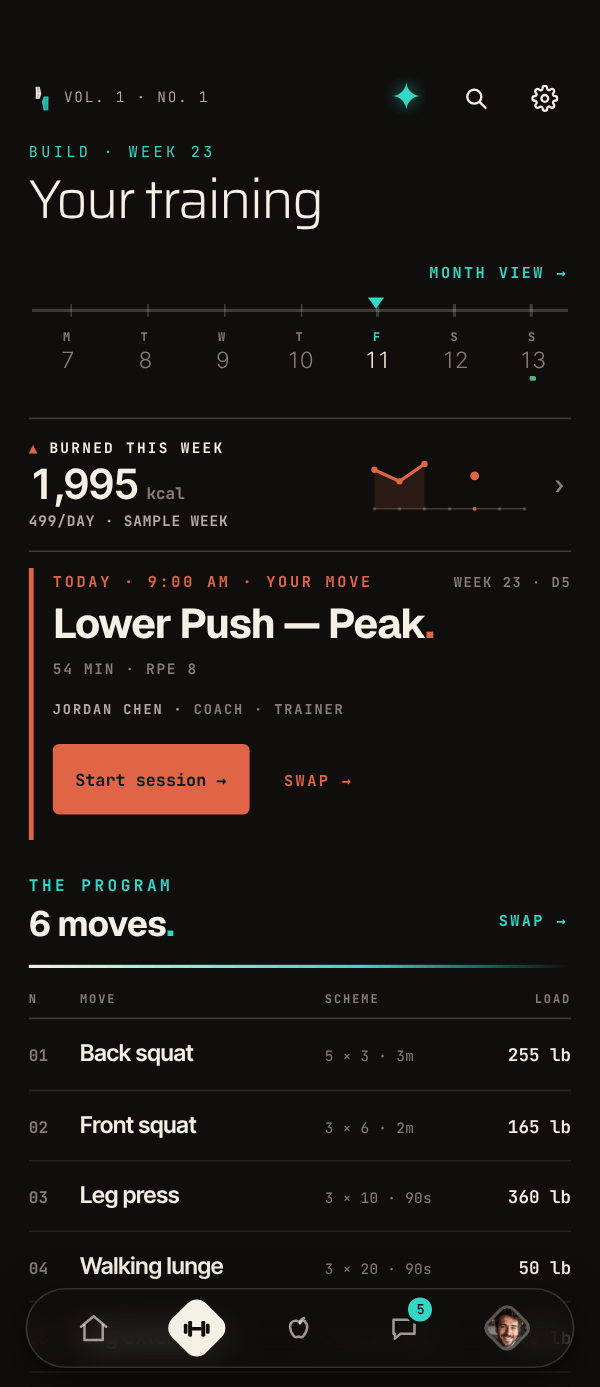
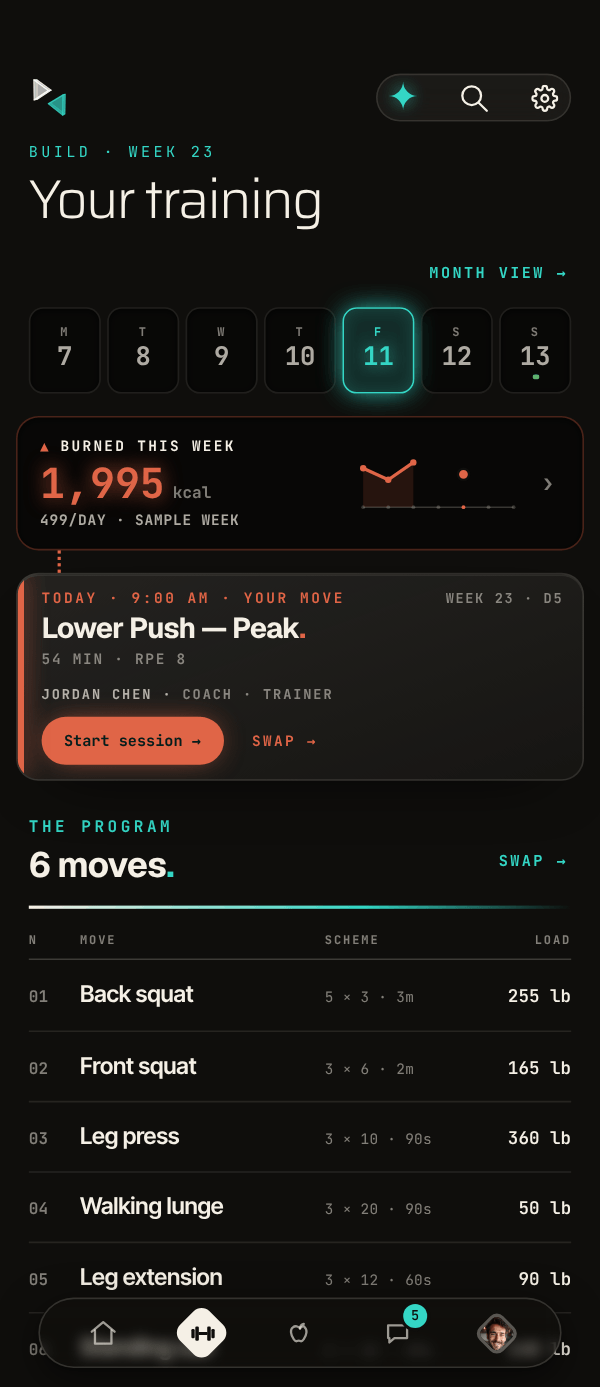
Website: every app screenshot re-shot from the current app (#2663)
Owner, 2026-11-09: "need to update all screenshots of app on website, on home page and app page".

Thirteen screens from a /m/ build of main in the signed-out preview, by the recorded method (375x867 at 1.6, Fri 2026-09-11 09:30 New York, is-native-app). Get App's eleven PNGs in place at ?v=20261109; the homepage's seven JPEGs as -v5. Copy follows the screens (Home's goal, Eat's 47g, the coach's new page, the Wall's figure); the homepage's four rings re-measured, Eat's and the session's inside their cards. War Room: #2659 and #2663 recorded, the old Grocery capture done.

diff --git a/public/newdesign/GetApp.html b/public/newdesign/GetApp.html
@@ -312,11 +312,11 @@
           <div class="time">06:45</div>
           <div class="eb">WAKE &#183; HOME</div>
           <h2>Today, at a glance.</h2>
-          <p>The Shape Daily: the station, your week, the morning check-in with your water, and today&rsquo;s call. Skim it in five seconds, dive in if you want.</p>
-          <div class="num"><b>&#9632;</b> Today&rsquo;s call &#183; Lower Push &#8212; Peak &#183; check-in, 15 sec</div>
+          <p>Your score, the station, the goal you&rsquo;re chasing, your week and the morning check-in with your water. Skim it in five seconds, dive in if you want.</p>
+          <div class="num"><b>&#9632;</b> Lean by August &#183; 7.1 lb to go</div>
           <span class="exlabel">Example member</span>
         </div>
-        <div class="beat-ph"><div class="ph"><div class="ph-scr"><img src="/newdesign/getapp-home-v5.png?v=20261103b" width="600" height="1387" alt="The app&rsquo;s Home screen: Shape Radio, the week strip, the morning check-in with water, and today&rsquo;s call" decoding="async"></div></div></div>
+        <div class="beat-ph"><div class="ph"><div class="ph-scr"><img src="/newdesign/getapp-home-v5.png?v=20261109" width="600" height="1387" alt="The app&rsquo;s Home screen: the Shape Score, Shape Radio, the goal drawn as a climb with 7.1 lb to go, the week strip, and the morning check-in with water" decoding="async"></div></div></div>
       </section>
       <section class="beat" style="--sky:rgba(255,180,84,.08)">
         <div class="beat-copy">
@@ -324,10 +324,10 @@
           <div class="eb">BREAKFAST &#183; EAT</div>
           <h2>Macros, tallied live.</h2>
           <p>Daily meal plans from your nutritionist. The day&rsquo;s deficit or surplus ticks as you log; swaps are built in.</p>
-          <div class="num"><b>&#9632;</b> 532 kcal left &#183; protein 118 / 165</div>
+          <div class="num"><b>&#9632;</b> 532 kcal left &#183; protein 47g left</div>
           <span class="exlabel">Example member</span>
         </div>
-        <div class="beat-ph"><div class="ph"><div class="ph-scr"><img src="/newdesign/getapp-nutri-v3.png?v=20261103" width="600" height="1387" alt="The app&rsquo;s Eat screen: the fuel left today by calories and macro, then the next meal with Log it and Swap" loading="lazy" decoding="async"></div></div></div>
+        <div class="beat-ph"><div class="ph"><div class="ph-scr"><img src="/newdesign/getapp-nutri-v3.png?v=20261109" width="600" height="1387" alt="The app&rsquo;s Eat screen: the fuel left today by calories and macro, then the next meal with Log it and Swap" loading="lazy" decoding="async"></div></div></div>
       </section>
       <section class="beat" style="--sky:rgba(52,214,197,.10)">
         <div class="beat-copy">
@@ -338,7 +338,7 @@
           <div class="num"><b>&#9632;</b> 6 moves &#183; 54 min &#183; RPE 8</div>
           <span class="exlabel">Example member</span>
         </div>
-        <div class="beat-ph"><div class="ph"><div class="ph-scr"><img src="/newdesign/getapp-train-v3.png?v=20261103" width="600" height="1387" alt="The app&rsquo;s Train screen: the calories burned this week, today&rsquo;s session with its coach and a Start button, then the program move by move with sets and loads" loading="lazy" decoding="async"></div></div></div>
+        <div class="beat-ph"><div class="ph"><div class="ph-scr"><img src="/newdesign/getapp-train-v3.png?v=20261109" width="600" height="1387" alt="The app&rsquo;s Train screen: the calories burned this week, today&rsquo;s session with its coach and a Start button, then the program move by move with sets and loads" loading="lazy" decoding="async"></div></div></div>
       </section>
       <section class="beat" style="--sky:rgba(52,214,197,.08)">
         <div class="beat-copy">
@@ -349,18 +349,18 @@
           <div class="num"><b>&#9632;</b> 245 lb &#183; new PR</div>
           <span class="exlabel">Example member</span>
         </div>
-        <div class="beat-ph"><div class="ph"><div class="ph-scr"><img src="/newdesign/getapp-wall-v1.png?v=20261103" width="600" height="1387" alt="A deadlift PR opened from the app&rsquo;s Wall: 245 lb as the top set under the headline, the member&rsquo;s note, the coach&rsquo;s co-sign, then the session&rsquo;s summary and heart rate" loading="lazy" decoding="async"></div></div></div>
+        <div class="beat-ph"><div class="ph"><div class="ph-scr"><img src="/newdesign/getapp-wall-v1.png?v=20261109" width="600" height="1387" alt="A deadlift PR opened from the app&rsquo;s Wall: 245 lb as the top set under the headline, the member&rsquo;s note, the coach&rsquo;s co-sign, then the session&rsquo;s summary and heart rate" loading="lazy" decoding="async"></div></div></div>
       </section>
       <section class="beat" style="--sky:rgba(192,83,59,.10)">
         <div class="beat-copy">
           <div class="time">12:15</div>
           <div class="eb">THE COACH&rsquo;S SIDE &#183; THEIR PAGE</div>
           <h2>Your coach&rsquo;s page, run from the app.</h2>
-          <p>Every trainer and nutritionist has a page on Shape and runs it from the app: the cover and photo, how they coach, their verified tier and reviews, and the hours they open. Only they see the Business card beneath it, with what they take home a month.</p>
-          <div class="num"><b>&#9632;</b> Verified Elite coach &#183; 9.9/10 from 284 reviews</div>
+          <p>Every trainer and nutritionist has a page on Shape and runs it from the app: the photo and gym, how they coach, their verified tier, rating and reviews. Only they see the Business card beneath it, with what they take home a month.</p>
+          <div class="num"><b>&#9632;</b> Verified by Shape &#183; Elite &#183; 9.9/10 from 284 reviews</div>
           <span class="exlabel">Example coach &#183; the trainer preview, sample numbers</span>
         </div>
-        <div class="beat-ph"><div class="ph"><div class="ph-scr"><img src="/newdesign/getapp-coach-v2.png?v=20261103" width="600" height="1387" alt="A coach&rsquo;s own page in the app&rsquo;s trainer preview: the gym cover and their photo, Verified Elite coach at 9.9/10 from 284 reviews, Make it yours and Your hours, and the private Business card with sample numbers" loading="lazy" decoding="async"></div></div></div>
+        <div class="beat-ph"><div class="ph"><div class="ph-scr"><img src="/newdesign/getapp-coach-v2.png?v=20261109" width="600" height="1387" alt="A coach&rsquo;s own page in the app&rsquo;s trainer preview: their photo over the gym, 9.9/10 from 284 reviews, their discipline, gym and city over their name, Verified by Shape and Elite, their line, the Elite tier at 3,060 points, and the private Business card with sample numbers" loading="lazy" decoding="async"></div></div></div>
       </section>
       <section class="beat" style="--sky:rgba(238,243,240,.05)">
         <div class="beat-copy">
@@ -371,7 +371,7 @@
           <div class="num"><b>&#9632;</b> 89 items &#183; 8 in the cart &#183; 81 to get</div>
           <span class="exlabel">Example member</span>
         </div>
-        <div class="beat-ph"><div class="ph"><div class="ph-scr"><img src="/newdesign/getapp-grocery-v2.png?v=20261103" width="600" height="1387" alt="The app&rsquo;s grocery list: this week&rsquo;s plan with 8 of 89 in the cart, Prep the week, then shopped by aisle with the aisles stepped across the top and Produce open" loading="lazy" decoding="async"></div></div></div>
+        <div class="beat-ph"><div class="ph"><div class="ph-scr"><img src="/newdesign/getapp-grocery-v2.png?v=20261109" width="600" height="1387" alt="The app&rsquo;s grocery list: this week&rsquo;s plan with 81 to get and 8 of 89 in the cart, then shopped by aisle with the aisles stepped across the top and Produce open" loading="lazy" decoding="async"></div></div></div>
       </section>
       <section class="beat" style="--sky:rgba(52,214,197,.12)">
         <div class="beat-copy">
@@ -382,7 +382,7 @@
           <div class="num"><b>&#9632;</b> The station &#183; ad-free &#183; in your membership</div>
           <span class="exlabel">Example member</span>
         </div>
-        <div class="beat-ph"><div class="ph"><div class="ph-scr"><img src="/newdesign/getapp-radio-v3.png?v=20261103" width="600" height="1387" alt="The app&rsquo;s Radio page: the Signal Field drawing the station&rsquo;s spectrum over a field of dots, with Now playing and Tune in below" loading="lazy" decoding="async"></div></div></div>
+        <div class="beat-ph"><div class="ph"><div class="ph-scr"><img src="/newdesign/getapp-radio-v3.png?v=20261109" width="600" height="1387" alt="The app&rsquo;s Radio page: the Signal Field drawing the station&rsquo;s spectrum over a field of dots, with Tempo Lift now playing and Tune in below" loading="lazy" decoding="async"></div></div></div>
       </section>
       <section class="beat" style="--sky:rgba(120,110,255,.10)">
         <div class="beat-copy">
@@ -390,10 +390,10 @@
           <div class="eb">THE ROOM &#183; THE WALL</div>
           <h2>The social side of strong.</h2>
           <p>See who is training right now and send a boost mid-set. The Wall carries your people&rsquo;s workouts, runs, PRs and meals, beside channels for your crew and a thread straight to your coach.</p>
-          <div class="num"><b>&#9632;</b> 2,104 online now &#183; 3 unread elsewhere</div>
+          <div class="num"><b>&#9632;</b> 2,104 online now &#183; Priya on set 4 of 5</div>
           <span class="exlabel">Example member</span>
         </div>
-        <div class="beat-ph"><div class="ph"><div class="ph-scr"><img src="/newdesign/getapp-community-v2.png?v=20261103" width="600" height="1387" alt="The Wall in the app&rsquo;s Chat: who is online along the top, the feed&rsquo;s filters, and a member live mid-workout with Send a boost" loading="lazy" decoding="async"></div></div></div>
+        <div class="beat-ph"><div class="ph"><div class="ph-scr"><img src="/newdesign/getapp-community-v2.png?v=20261109" width="600" height="1387" alt="The Wall in the app&rsquo;s Chat: Universal and Following, who is online along the top, the feed&rsquo;s filters, and a member live mid-workout with Send a boost" loading="lazy" decoding="async"></div></div></div>
       </section>
       <section class="beat" style="--sky:rgba(120,110,255,.07)">
         <div class="beat-copy">
@@ -404,7 +404,7 @@
           <div class="num"><b>&#9632;</b> 3 habits today &#183; +3 pts a tick</div>
           <span class="exlabel">Example member</span>
         </div>
-        <div class="beat-ph"><div class="ph"><div class="ph-scr"><img src="/newdesign/getapp-habits-v1.png?v=20261103" width="600" height="1387" alt="The app&rsquo;s Habits page: today&rsquo;s three habits at 3 points each, a tap to tick, the to-do and to-don&rsquo;t buttons, and the week&rsquo;s chart below" loading="lazy" decoding="async"></div></div></div>
+        <div class="beat-ph"><div class="ph"><div class="ph-scr"><img src="/newdesign/getapp-habits-v1.png?v=20261109" width="600" height="1387" alt="The app&rsquo;s Habits page: a ring of the day&rsquo;s points, the to-do and to-don&rsquo;t buttons, today&rsquo;s three habits at 3 points each, and the week&rsquo;s chart below" loading="lazy" decoding="async"></div></div></div>
       </section>
       <section class="beat" style="--sky:rgba(230,195,115,.10)">
         <div class="beat-copy">
@@ -415,7 +415,7 @@
           <div class="num"><b>&#9632;</b> 1,284 pts &#183; Tempo &#183; 716 from Form</div>
           <span class="exlabel">Example member</span>
         </div>
-        <div class="beat-ph"><div class="ph"><div class="ph-scr"><img src="/newdesign/getapp-score-v3.png?v=20261103" width="600" height="1387" alt="The app&rsquo;s Shape Score: 1,284 points, Tempo and climbing, 716 from Form, and the ladder from Raw to Legend" loading="lazy" decoding="async"></div></div></div>
+        <div class="beat-ph"><div class="ph"><div class="ph-scr"><img src="/newdesign/getapp-score-v3.png?v=20261109" width="600" height="1387" alt="The app&rsquo;s Shape Score: 1,284 points, Tempo and climbing, 716 from Form, and the ladder from Raw to Legend" loading="lazy" decoding="async"></div></div></div>
       </section>
       <section class="beat" style="--sky:rgba(230,195,115,.07)">
         <div class="beat-copy">
@@ -426,7 +426,7 @@
           <div class="num"><b>&#9632;</b> First half-marathon &#183; 74 days out</div>
           <span class="exlabel">Example member</span>
         </div>
-        <div class="beat-ph"><div class="ph"><div class="ph-scr"><img src="/newdesign/getapp-profile-v2.png?v=20261103" width="600" height="1387" alt="The app&rsquo;s member profile: the climb from Tempo to Form drawn over the cover photo at 43%, the tier, points and streak, the counts, and the coach" loading="lazy" decoding="async"></div></div></div>
+        <div class="beat-ph"><div class="ph"><div class="ph-scr"><img src="/newdesign/getapp-profile-v2.png?v=20261109" width="600" height="1387" alt="The app&rsquo;s member profile: the climb from Tempo to Form drawn over the cover photo at 43%, the counts, the tier, points and streak, the coach, and the Activity tab" loading="lazy" decoding="async"></div></div></div>
       </section>
     </div>
 

diff --git a/public/newdesign/index.html b/public/newdesign/index.html
@@ -331,9 +331,11 @@
      ⚠ AND EACH RING IS FITTED TO ITS CAPTURE, ON ALL FOUR SIDES. The app's own
      content starts ~28 px into a 600 px capture (5%), so a 5% inset drew every
      ring THROUGH the text it framed: "1,568", "1/25", "SET 01", the NEW PR chip.
-     2.5% clears it; the Wall's content starts at 19 px, so its ring overrides
-     to 1.25%. Each ring's top/height is the target's measured bounds plus ~12 px,
-     or the midpoint of the gap where its neighbours are closer than that. */
+     2.5% clears it. Where the target is a card that runs nearly edge to edge
+     (Eat's fuel card, the session's set card), 2.5% would draw along the card's
+     own border, so that ring overrides its inset to sit just inside the card
+     (4% and 5.67%). Each ring's top/height is the target's measured bounds plus
+     ~12 px, or the midpoint of the gap where its neighbours are closer than that. */
   .mo .shot img{display:block;width:100%;height:auto;transform:translateY(calc(var(--y) * -1))}
   .mo .hl{position:absolute;left:2.5%;right:2.5%;border:1.5px solid var(--teal);border-radius:6px;
           box-shadow:0 0 0 3px rgba(var(--teal-rgb),.12);opacity:0;transition:opacity .25s}
@@ -1068,19 +1070,19 @@
     <div class="mo-grid" id="mo-grid">
       <div class="mo on" data-tilt="4">
         <div class="eb">Eat · the menu</div><h3>The ledger ticks.</h3>
-        <div class="shot"><img src="/newdesign/home-eat-v4.jpg" width="600" height="1387" loading="lazy" decoding="async" alt="The Eat screen: the fuel left today, 532 kcal, and what is left of each macro, then lunch up next with Log it and Swap" style="--y:19%"><span class="hl" style="top:27.06%;height:45.38%"></span></div>
+        <div class="shot"><img src="/newdesign/home-eat-v5.jpg" width="600" height="1387" loading="lazy" decoding="async" alt="The Eat screen: the fuel left today, 532 kcal, and what is left of each macro, then lunch up next with Log it and Swap" style="--y:19%"><span class="hl" style="top:37.81%;height:17.38%;left:4%;right:4%"></span></div>
       </div>
       <div class="mo" data-tilt="4">
         <div class="eb">Eat · the shop</div><h3>The list writes itself.</h3>
-        <div class="shot"><img src="/newdesign/home-grocery-v4.jpg" width="600" height="1387" loading="lazy" decoding="async" alt="The grocery list: this week's plan, 8 of 89 in the cart, shopped by aisle with the aisles stepped across the top and Produce open, 24 to get" style="--y:34%"><span class="hl" style="top:53.3%;height:27.38%"></span></div>
+        <div class="shot"><img src="/newdesign/home-grocery-v5.jpg" width="600" height="1387" loading="lazy" decoding="async" alt="The grocery list: this week's plan, 8 of 89 in the cart, shopped by aisle with the aisles stepped across the top and Produce open, 24 to get" style="--y:34%"><span class="hl" style="top:28.8%;height:17.88%"></span></div>
       </div>
       <div class="mo" data-tilt="4">
         <div class="eb">Train · in the session</div><h3>A set logs.</h3>
-        <div class="shot"><img src="/newdesign/home-session-v4.jpg" width="600" height="1387" loading="lazy" decoding="async" alt="The live session player: back squat, five sets of three, set one up with its load and reps" style="--y:10.75%"><span class="hl" style="top:41.61%;height:16.75%"></span></div>
+        <div class="shot"><img src="/newdesign/home-session-v5.jpg" width="600" height="1387" loading="lazy" decoding="async" alt="The live session player: back squat, five sets of three, set one up with its load and reps" style="--y:10.75%"><span class="hl" style="top:44.99%;height:19.13%;left:5.67%;right:5.67%"></span></div>
       </div>
       <div class="mo" data-tilt="4">
         <div class="eb">Community · the Wall</div><h3>A PR lands.</h3>
-        <div class="shot"><img src="/newdesign/home-feed-v4.jpg" width="600" height="1387" loading="lazy" decoding="async" alt="A deadlift PR from the Wall: 245 lb as the top set under the headline, the member's note, and the coach's co-sign below" style="--y:0%"><span class="hl" style="top:44.13%;height:37.88%"></span></div>
+        <div class="shot"><img src="/newdesign/home-feed-v5.jpg" width="600" height="1387" loading="lazy" decoding="async" alt="A deadlift PR from the Wall: 245 lb as the top set under the headline, the member's note, and the coach's co-sign below" style="--y:0%"><span class="hl" style="top:39.25%;height:37.63%"></span></div>
       </div>
     </div>
     <div style="margin-top:20px"><span class="exlabel">Example member · captured from the app's signed-out preview</span></div>
@@ -1235,7 +1237,7 @@
       <div class="jph" id="jph">
         <div class="appph">
           <span class="isl"></span>
-          <img id="jph-img" src="/newdesign/home-profile-v4.jpg" width="600" height="1387" loading="lazy" decoding="async" alt="A member's living profile: the climb to the next tier drawn over their cover photo, then their tier, points and streak" style="--y:0%">
+          <img id="jph-img" src="/newdesign/home-profile-v5.jpg" width="600" height="1387" loading="lazy" decoding="async" alt="A member's living profile: the climb to the next tier drawn over their cover photo, then their tier, points and streak" style="--y:0%">
         </div>
         <div class="phcap"><b id="jph-t">Your living profile</b><span id="jph-c">The tier, the streak and the climb — drawn from day one on the terrain that is yours.</span></div>
       </div>
@@ -1293,12 +1295,12 @@
       </div>
       <div>
         <!-- ⚠ DELIBERATELY NOT THE SCORE CAPTURE. The journey rail's stage 04 already
-             carries home-score-v4.jpg under the SAME headline and the SAME sentence, so
+             carries home-score-v5.jpg under the SAME headline and the SAME sentence, so
              this phone was the second of two identical Shape Score snapshots on one page
              - the reader scrolled past the same frame twice and learned nothing the
              second time. The price section is the one place someone is deciding what $5
              buys, so it shows the screen that answers that in a single frame: the
-             station, the week, the morning check-in and today's call at once.
+             score, the station, the goal, the week and the morning check-in at once.
              It is a PNG among the page's JPEG captures because that is the Home capture
              that EXISTS (600x1387, shared byte-for-byte with GetApp.html's step 1, same
              ?v= so the two share one cache entry). It is lazy-loaded and several screens
@@ -1306,9 +1308,9 @@
              Guarded by tests/homepage-climb.test.mjs. -->
         <div class="appph">
           <span class="isl"></span>
-          <img src="/newdesign/getapp-home-v5.png?v=20261103b" width="600" height="1387" loading="lazy" decoding="async" alt="The app's Home screen: Shape Radio, this week's calendar, the morning check-in with water, and today's call" style="--y:0%">
+          <img src="/newdesign/getapp-home-v5.png?v=20261109" width="600" height="1387" loading="lazy" decoding="async" alt="The app's Home screen: the Shape Score, Shape Radio, the goal drawn as a climb with 7.1 lb to go, this week's strip, and the morning check-in with water" style="--y:0%">
         </div>
-        <div class="phcap"><b>Today, at a glance</b>The Shape Daily: the station, your week, the morning check-in and today's call.<span class="lbl-row"><span class="exlabel">Example member</span></span></div>
+        <div class="phcap"><b>Today, at a glance</b>Your score, the station, your goal, your week and the morning check-in.<span class="lbl-row"><span class="exlabel">Example member</span></span></div>
       </div>
     </div>
   </div>
@@ -1664,19 +1666,19 @@
      also what the MARKUP ships, so the reduced-motion and no-JS renders (which
      never reach this code) are already showing stage 1 rather than a blank frame. */
   var PH=[
-    ['/newdesign/home-profile-v4.jpg','Your living profile',
+    ['/newdesign/home-profile-v5.jpg','Your living profile',
      'The tier, the streak and the climb \u2014 drawn from day one on the terrain that is yours.',
      "A member's living profile: the climb to the next tier drawn over their cover photo, then their tier, points and streak"],
-    ['/newdesign/home-match-v4.jpg','Find a coach',
+    ['/newdesign/home-match-v5.jpg','Find a coach',
      'Vetted trainers and RDs, browsed and messaged from inside the app before you commit.',
      'The foot of the Eat screen: your nutritionist, their note, and the find-a-nutritionist row for vetted RDs'],
-    ['/newdesign/home-session-v4.jpg','The live session',
+    ['/newdesign/home-session-v5.jpg','The live session',
      'The plan lands written. You log the set and the app keeps the count.',
      'The live session player: back squat, five sets of three, set one up with its load and reps'],
-    ['/newdesign/home-score-v4.jpg','The Shape Score',
+    ['/newdesign/home-score-v5.jpg','The Shape Score',
      'One number over everything you log, with the ladder it climbs.',
      'The Shape Score page: the current standing, the tier, and the ladder from Raw to Legend'],
-    ['/newdesign/home-feed-v4.jpg','The Wall',
+    ['/newdesign/home-feed-v5.jpg','The Wall',
      'Your records land where your coach and your crew can see them.',
      "A deadlift PR from the Wall: 245 lb as the top set under the headline, the member's note, and the coach's co-sign below"]
   ];

diff --git a/src/lib/warroom.ts b/src/lib/warroom.ts
@@ -624,6 +624,19 @@ function buildChecklist(config: ConfigGroup[], mobileBuild = false): ChecklistSe
 
   return [
     {
+      section: 'Website: the fold\'s eyebrow and stats out, the members page retired (#2659); every app screenshot re-shot from the current app (#2663). No migration',
+      items: [
+        { label: 'Owner, 2026-11-09: "remove these from home page on website" (the fold\'s "Your climb · Shape Score" eyebrow and its three stats), "remove the members page from website", and "need to update all screenshots of app on website, on home page and app page"', status: 'done' },
+        { label: '#2659 homepage fold: the eyebrow and the $5/mo · 0 ads · 1 app stats gone with their CSS; the route\'s trailhead is min(0.86H, H − 50), clear of the wire and its stroke on short windows (Codex P2 on c78f96f, fixed in 7bf972f)', status: 'done' },
+        { label: '#2659 members page: Client.html and clientOverview.jsx deleted; Members off both nav bars and drawers (SIGNED_OUT_ONLY is Pricing), For members off both footers, Overview off the legal pages\' Clients menu, out of the sitemap; /newdesign/Client.html and /for-clients redirect to the homepage; tests/members-page-retired.test.mjs holds it', status: 'done' },
+        { label: '#2663 captures: from a /m/ build of main (59eb433) in the signed-out preview by the recorded method (375×867 at 1.6, Fri 2026-09-11 09:30 New York, is-native-app; /api/me and now-playing as production answers signed out). Get App\'s eleven PNGs in place at ?v=20261109 as 256-colour palettes; the homepage\'s seven JPEGs as -v5', status: 'done' },
+        { label: '#2663 copy follows the screens: Home leads with the score, the station and the goal (Lean by August · 7.1 lb to go); Eat reads 47g of protein left; the coach\'s page is the new layout (Verified by Shape · Elite · 9.9/10 from 284 reviews); the Wall\'s figure is 2,104 online now · Priya on set 4 of 5', status: 'done' },
+        { label: '#2663 the homepage rings re-measured: Eat\'s and the session\'s inside their cards (4%, 5.67%), Grocery\'s Produce and Apple, the Wall\'s headline through the note; the pixel test passes on all four', status: 'done' },
+        { label: 'Review: Codex clean on 7bf972f (#2659) and b11ca03 (#2663); CI green on both heads', status: 'done' },
+        { label: 'Left by #2663: the capture script is not in the repo (run from a scratch folder, as before); the method is in the PR description', status: 'pending' },
+      ],
+    },
+    {
       section: 'Agents: the support reviewer finds known gaps in the War Room; ui-ux-pro-max and framer-motion drop retired build steps; a test holds agent files to the repo (#2650). No migration',
       items: [
         { label: 'Owner, 2026-11-09: "i want to make my agents better", with softaworks/agent-toolkit\'s marketplace and dhruvjainin/absolute\'s eleven skills to review', status: 'done' },
@@ -951,7 +964,7 @@ function buildChecklist(config: ConfigGroup[], mobileBuild = false): ChecklistSe
         { label: 'The workout detail page still credits its note to Jordan Chen, plays his playlist, and Save files the sample workout on a live day, as before (flagged in BSWorkoutDetail.jsx)', status: 'pending' },
         { label: 'English with no copy keys: the filed stamp\'s no-macros words and the workout detail page\'s fixed sample copy', status: 'pending' },
         { label: 'No longer used by the app: BSFocusRoute and BSShopBySwitch (BSFocus.jsx), the key nutrition:grocery.shop.aisleOf; the client imports BSFocusLead, BSFocusCountdown and BSFocusActions unused, as on main', status: 'pending' },
-        { label: 'The website\'s home-grocery-v4.jpg still shows the old Grocery page', status: 'pending' },
+        { label: 'The website\'s home-grocery-v4.jpg still shows the old Grocery page (re-shot as home-grocery-v5.jpg in #2663)', status: 'done' },
         { label: 'OWNER: on a phone, Your mornings, the goal climb, Settings, a meal page, Grocery, logging a meal and a workout from its page through Focus, on both papers', status: 'manual' },
       ],
     },
